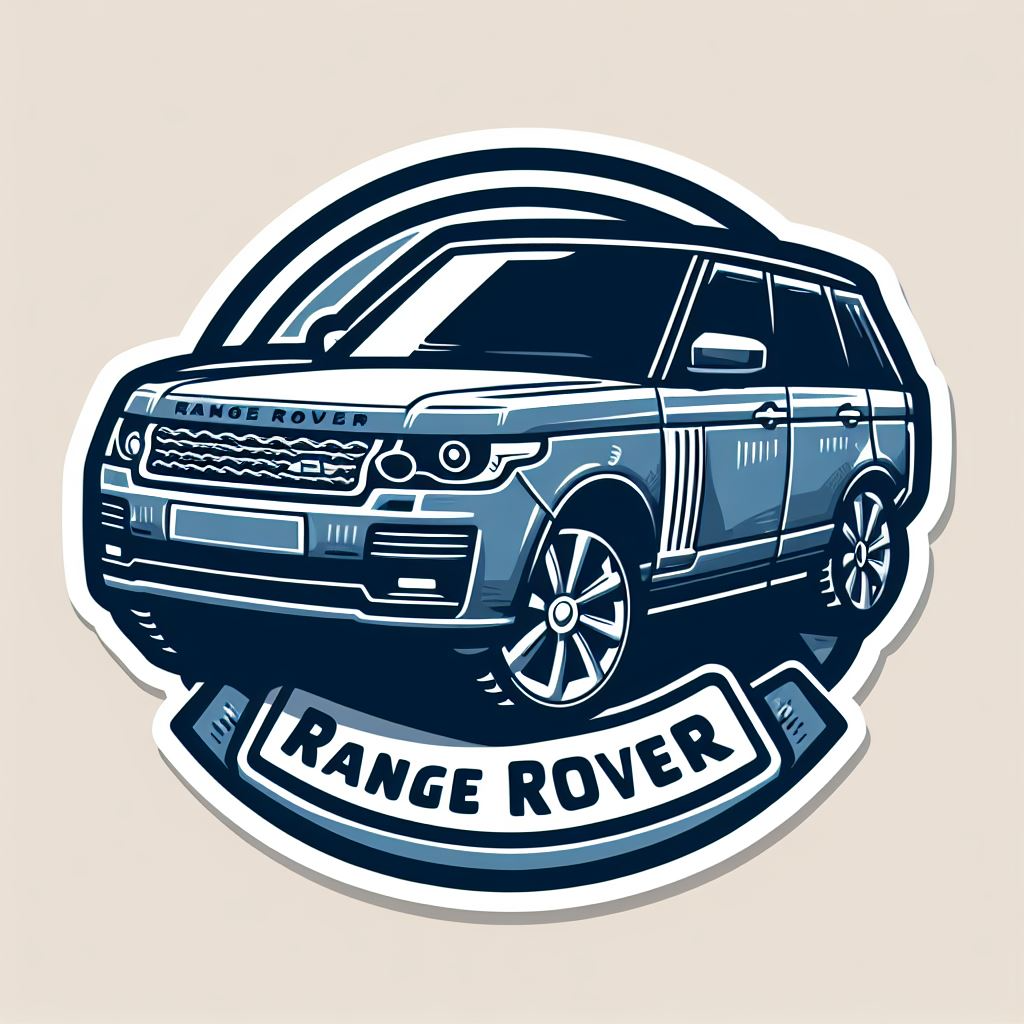
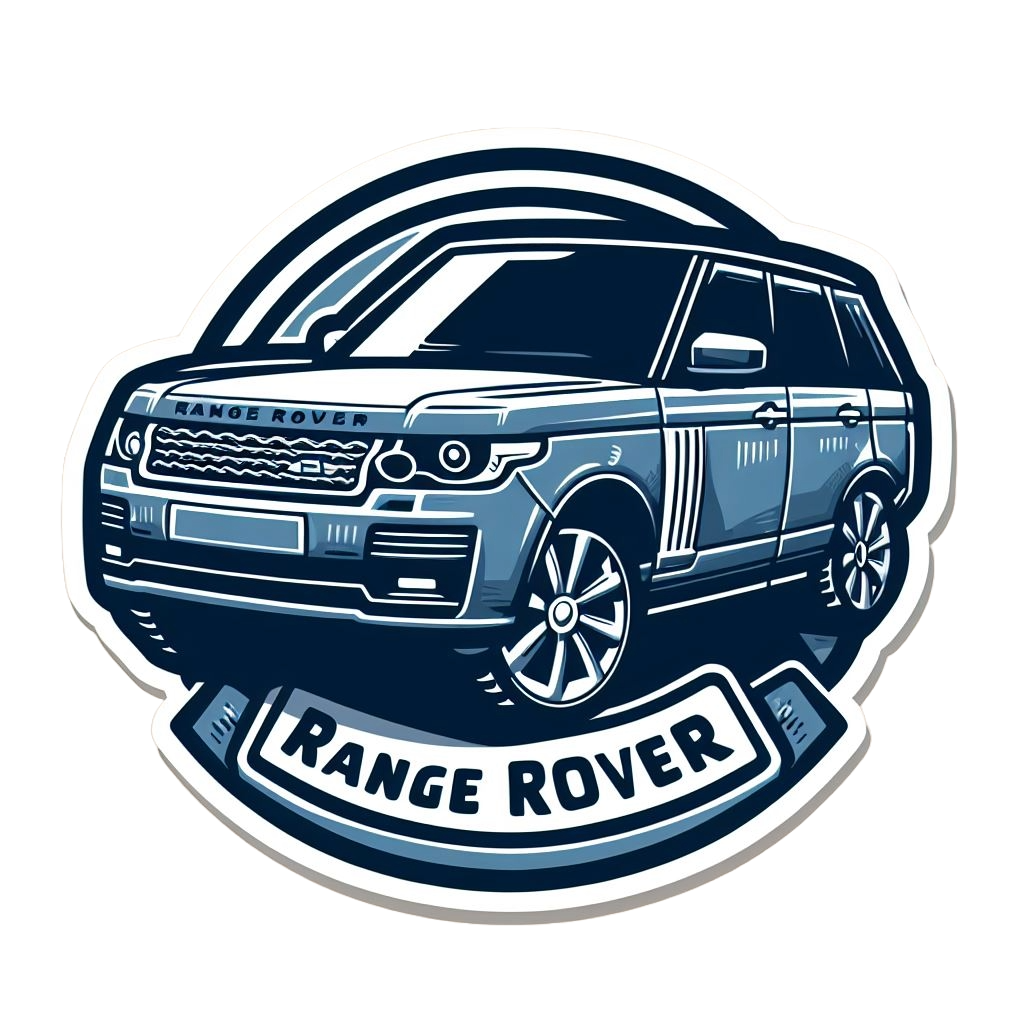
Navbar styling

diff --git a/app/components/assets/itemList.js b/app/components/assets/itemList.js
@@ -4,14 +4,14 @@ export const itemList = [
         title: 'porshe sticker',
         price: 4.00,
         descr: "a sticker of a porsche... duh",
-        image: 'https://th.bing.com/th/id/OIG.HOMRCqck6E1jVnqPiclZ?w=270&h=270&c=6&r=0&o=5&dpr=2&pid=ImgGn'
+        image: 'https://th.bing.com/th/id/OIG.TBN01J1goNTkmP4XrgMe?pid=ImgGn&w=1024&h=1024&rs=1'
     },
     {
         id: 2,
         title: 'Range Rover sticker',
         price: 4.00,
         descr: "a sticker of a Range Rover... duh",
-        image: 'https://th.bing.com/th/id/OIG.HOMRCqck6E1jVnqPiclZ?w=270&h=270&c=6&r=0&o=5&dpr=2&pid=ImgGn'
+        image: 'https://th.bing.com/th/id/OIG.ZGTwQj8HeY.4VGzRO2v6?pid=ImgGn'
     },
     {
         id: 3,
@@ -25,34 +25,34 @@ export const itemList = [
         title: 'Range Rover sticker',
         price: 4.00,
         descr: "a sticker of a Range Rover... duh",
-        image: 'https://th.bing.com/th/id/OIG.HOMRCqck6E1jVnqPiclZ?w=270&h=270&c=6&r=0&o=5&dpr=2&pid=ImgGn'
+        image: 'https://th.bing.com/th/id/OIG.h1IFuyT4xhXZMrutg9mJ?pid=ImgGn&w=1024&h=1024&rs=1'
     },
     {
         id: 5,
         title: 'porshe sticker',
         price: 4.00,
         descr: "a sticker of a porsche... duh",
-        image: 'https://th.bing.com/th/id/OIG.HOMRCqck6E1jVnqPiclZ?w=270&h=270&c=6&r=0&o=5&dpr=2&pid=ImgGn'
+        image: 'https://th.bing.com/th/id/OIG.ZGTwQj8HeY.4VGzRO2v6?pid=ImgGn'
     },
     {
         id: 6,
         title: 'Range Rover sticker',
         price: 4.00,
         descr: "a sticker of a Range Rover... duh",
-        image: 'https://th.bing.com/th/id/OIG.HOMRCqck6E1jVnqPiclZ?w=270&h=270&c=6&r=0&o=5&dpr=2&pid=ImgGn'
+        image: 'https://th.bing.com/th/id/OIG.h1IFuyT4xhXZMrutg9mJ?pid=ImgGn&w=1024&h=1024&rs=1'
     },
     {
         id: 7,
         title: 'Range Rover sticker',
         price: 4.00,
         descr: "a sticker of a Range Rover... duh",
-        image: 'https://th.bing.com/th/id/OIG.HOMRCqck6E1jVnqPiclZ?w=270&h=270&c=6&r=0&o=5&dpr=2&pid=ImgGn'
+        image: 'https://th.bing.com/th/id/OIG.ZGTwQj8HeY.4VGzRO2v6?pid=ImgGn'
     },
     {
         id: 8,
         title: 'Range Rover sticker',
         price: 4.00,
         descr: "a sticker of a Range Rover... duh",
-        image: 'https://th.bing.com/th/id/OIG.HOMRCqck6E1jVnqPiclZ?w=270&h=270&c=6&r=0&o=5&dpr=2&pid=ImgGn'
+        image: 'https://th.bing.com/th/id/OIG.h1IFuyT4xhXZMrutg9mJ?pid=ImgGn&w=1024&h=1024&rs=1'
     }
 ]

diff --git a/app/components/Navbar/styles.modules.css b/app/components/Navbar/styles.modules.css
@@ -5,34 +5,51 @@
 .nav-basket{
     display: flex;
     align-items: center;
+    justify-content: center;
 }
 
+
 .links {
+    color: #000;
+    position: relative;
+    text-decoration: none;
+    
     flex-grow: 5;
-    background-color: aliceblue;
     display: flex;
     flex-direction: row;
     justify-content: center;
+    align-items: center;
 }
 
 .link {
     padding-inline: 10px;
 }
 
-.link:hover {
-    cursor: pointer;
-    color: red
+a {
+    color: #000;
+    position: relative;
+    text-decoration: none;
+  }
+
+a::before {
+    background: hsl(45 100% 70%);
+    content: "";
+    inset: 0;
+    position: absolute;
+    transform: scaleX(0);
+    transform-origin: right;
+    transition: transform 0.5s ease-in-out;
+    z-index: -1;
 }
 
+a:hover::before {
+    transform: scaleX(1);
+    transform-origin: left;
+}
 
 .basket-button {
     display: flex;
     justify-content: center;
     flex-grow: 1;
     background-color: aqua;
-}
-.basket-button:hover {
-    color: red;
-    cursor: pointer;
-    
 }

diff --git a/app/components/hero/Hero.jsx b/app/components/hero/Hero.jsx
@@ -3,7 +3,8 @@
 import React from 'react'
 import Image from 'next/image'
 import styles from "./styles.modules.css"
-import HeroImage from "../assets/images/porsche.png"
+import HeroImage from "../assets/images/RangeRover.png"
+import HeroImage1 from "../assets/images/RR1.png"
 
 export default function Hero () {
     return (
@@ -15,6 +16,12 @@ export default function Hero () {
                 </div>
                 <Image 
                     src={ HeroImage }
+                    height={300}
+                    width={300}
+                    alt='Car Sticker'
+                />
+                <Image
+                    src={ HeroImage1 }
                     height={300}
                     width={300}
                     alt='Car Sticker'

diff --git a/app/components/Navbar/Navbar.jsx b/app/components/Navbar/Navbar.jsx
@@ -12,7 +12,7 @@ export default function ShopItem () {
                 </div>
                 <div className="nav-basket">
                     <ShoppingBagOutlinedIcon/>
-                    <p className="basket-button" /*onClick={openBasket()}*/> Basket </p>
+                    <Link href="#" className="basket-button link" /*onClick={openBasket()}*/> Basket </Link>
                 </div>
             </nav>
         </main>

diff --git a/app/components/item/styles.modules.css b/app/components/item/styles.modules.css
@@ -1,9 +1,10 @@
 .item-card:hover {
     cursor: pointer;
+    scale: 1.02;
 }
 
 .item-card{
-    border: solid 1px;
+    /* border: solid 1px; */
     border-radius: 4px;
 
     width: 400px;
@@ -14,6 +15,8 @@
     align-items: center;
 
     justify-self: center;
+
+    box-shadow: rgba(50, 50, 93, 0.25) 0px 6px 12px -2px, rgba(0, 0, 0, 0.3) 0px 3px 7px -3px;
 }
 
 .item-image {

diff --git a/app/components/hero/styles.modules.css b/app/components/hero/styles.modules.css
@@ -3,9 +3,12 @@
     height: 600px;
     align-items: center;
     border: dotted 2px;
-    background-color: #e9dfd5;
+
+    background-image: url('https://images.pexels.com/photos/1420702/pexels-photo-1420702.jpeg?auto=compress&cs=tinysrgb&w=1260&h=750&dpr=2');
+    background-size: cover;
 
 }
+
 
 .content {
     display: flex;
